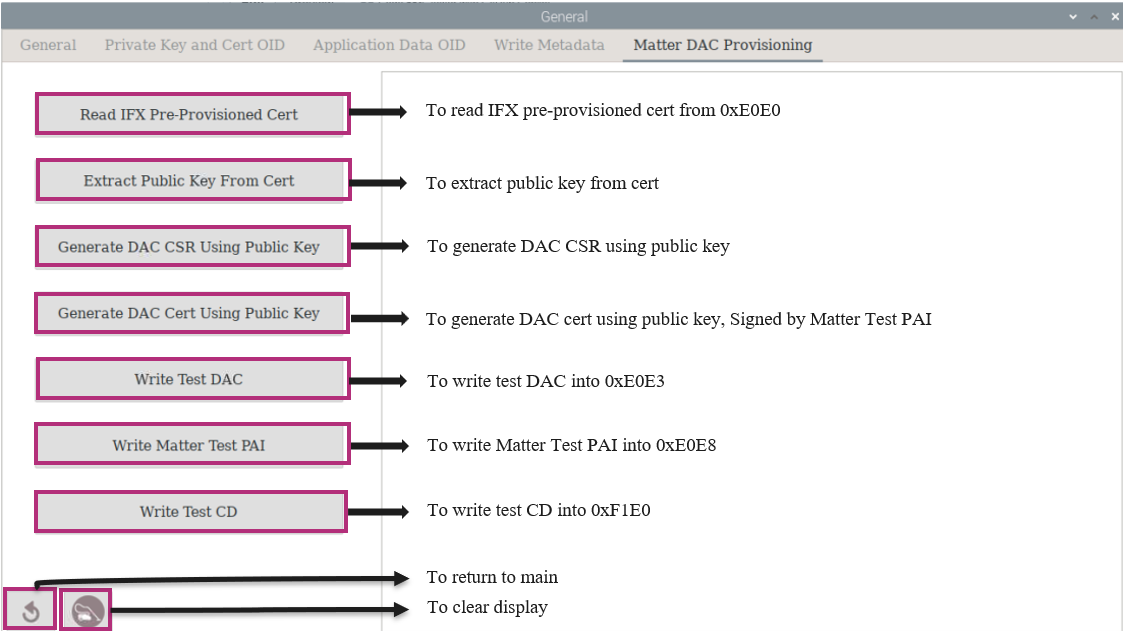
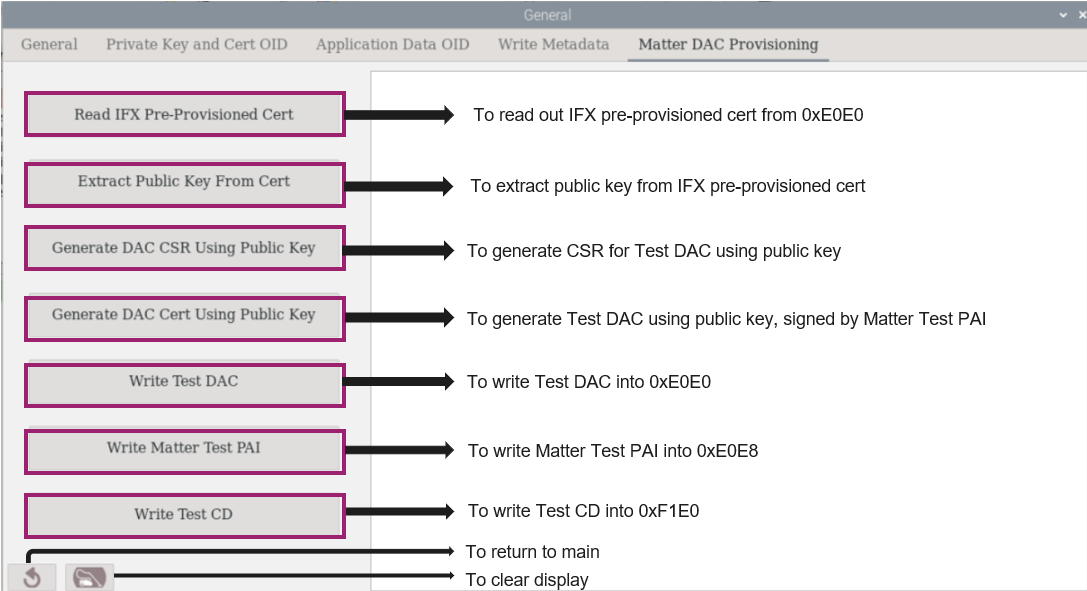
1)Updated User Guide.md

Changed region(s): [[0.0, 0.0, 1.0, 1.0], [0.9715, 0.9746, 1.0, 1.0]]

diff --git a/User Guide.md b/User Guide.md
@@ -27,7 +27,7 @@ This document is intended for the users who wish to explore the functionalities 
 
 
 - [2.4 Write Metadata](#write-metadata)
-- [2.5 Matter DAC Provisioning](#matter-dac-provisioning)
+- [2.5 Matter Test DAC Provisioning](#matter-test-dac-provisioning)
 
 
 [3. Cryptographic Functions](#cryptographic-functions)
@@ -430,8 +430,8 @@ To load custom metadata into target OID
 ![](images/General_Features/write_metadata/custom_meta_success.png)
 [^Figure 29]: custom metadata write success
 
-## Matter DAC Provisioning
-This section shows you the DAC Provisioning for Matter devices using the OPTIGA™ Trust M. It involves reading a pre-provisioned certificate from the chip, extracting the public key, generating a new DAC certificate signed by a trusted Matter CA and writing the DAC certificate, Matter Test PAI and Test CD into the Object IDs.
+## Matter Test DAC Provisioning
+This section shows you the Test DAC Provisioning for Matter devices using the OPTIGA™ Trust M for Device Attestation. It involves reading a pre-provisioned certificate from the chip, extracting the public key, generating a new DAC certificate signed by a trusted Matter CA and writing the Test DAC certificate, Matter Test PAI and Test CD into the Object IDs.
 
 ![](images/General_Features/matter_dac_provisioning/dac_functions.png)
 [^Figure 30]: Matter DAC Provisioning functions described
@@ -465,9 +465,10 @@ To generate the certificate, select "Generate DAC Cert Using Public Key".
 [^Figure 34]: DAC certificate generated from the public key
 
 ### Write DAC Cert
-Writes the new DAC certificate to OID 0xE0E3.
-To write the new DAC certificate into 0xE0E3, select "Write Test DAC".
+Writes the new DAC certificate to OID 0xE0E0.
+To write the new DAC certificate into 0xE0E0, select "Write Test DAC".
 ![](images/General_Features/matter_dac_provisioning/write_dac.png)
+
 [^Figure 35]: Displays information of the new DAC certificate
 
 ### Write Matter Test PAI
